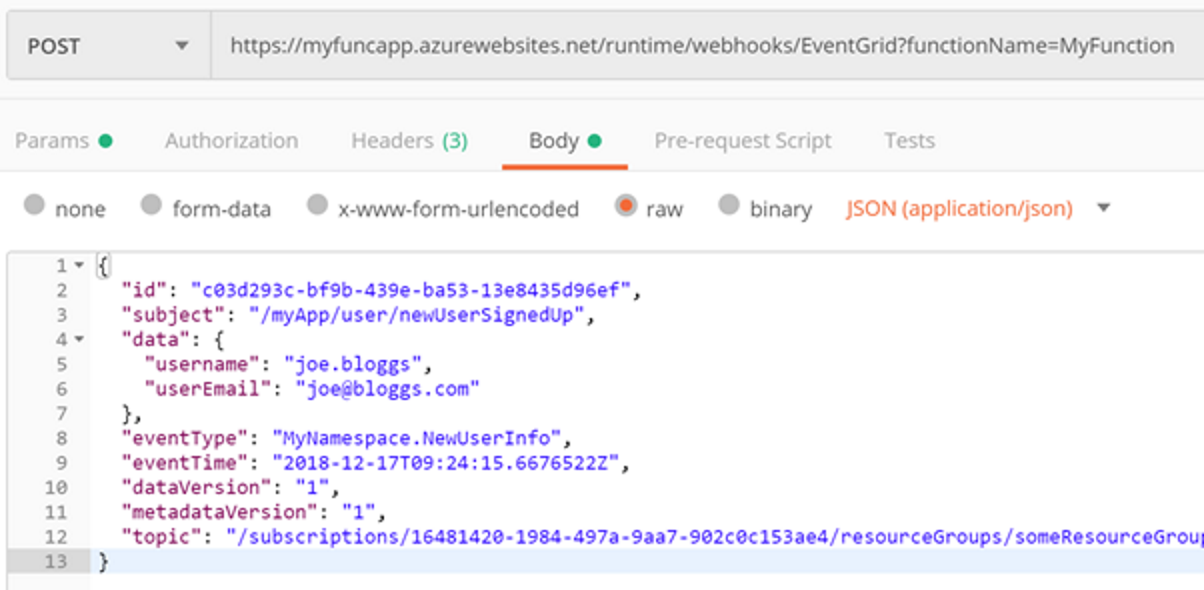
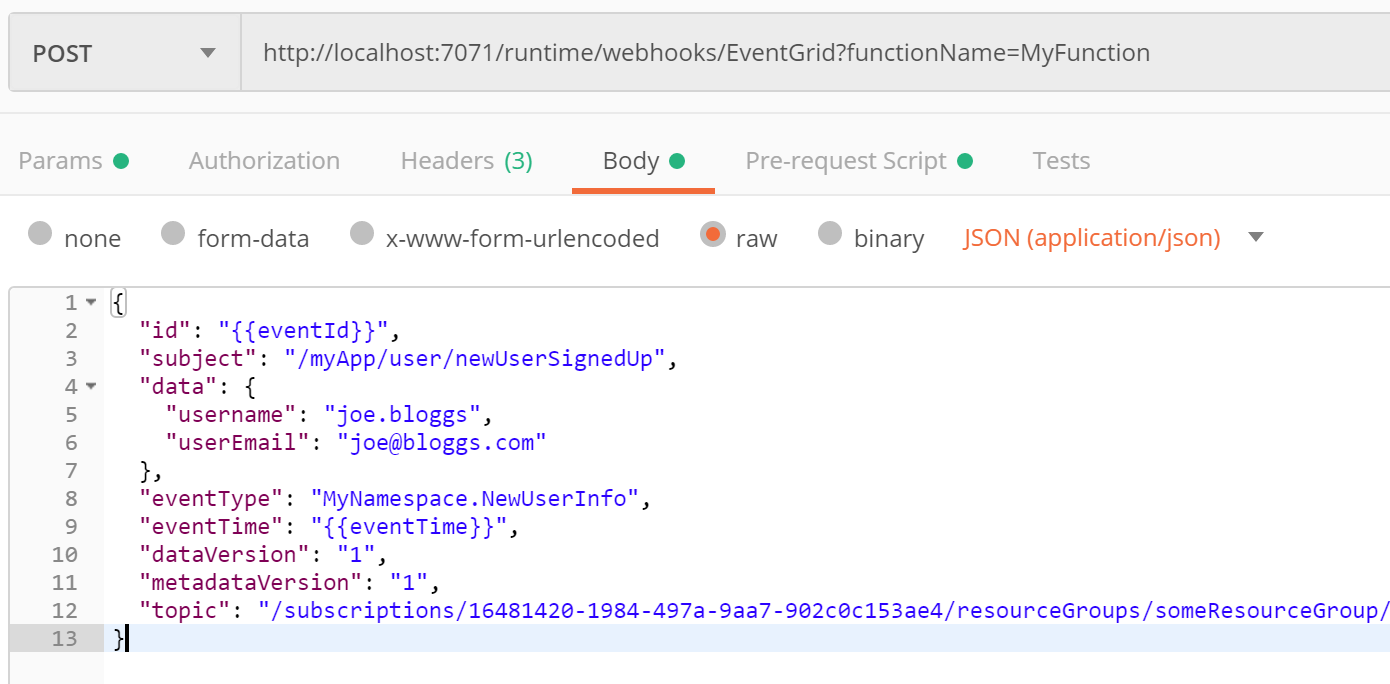
Fix up url derp.

diff --git a/_posts/2018-12-18-debug-eventgrid-triggered-azure-function.md b/_posts/2018-12-18-debug-eventgrid-triggered-azure-function.md
@@ -1,7 +1,7 @@
 ---
 layout: post
-title: Debugging an Event Grid Triggered Azure Function with Postman
-excerpt: "How to use Postman to debug an Azure Function that has an Event Grid Trigger."
+title: Locally Debugging an Event Grid Triggered Azure Function with Postman
+excerpt: "How to use Postman to locally debug an Azure Function that has an Event Grid Trigger."
 date: 2018-12-18
 categories: [C#, azure event grid, azure function, serverless]
 comments: true
@@ -16,6 +16,8 @@ Azure Functions can be invoked in response to various different [trigger](https:
 [Azure Event Grid](https://azure.microsoft.com/en-au/services/event-grid/) is analogous to SNS (Simple Notification Service) in AWS. It offers a simple event system which operates on a push-push model (rather than push-pull). Event Grid uses [topics](https://docs.microsoft.com/en-us/azure/event-grid/concepts). Events are published to a topic and subscribers receive the events from the topic. This model facilitates reactive programming and works great with Azure Logic apps and Azure Functions.
 
 Event Grid is deeply integrated into Azure. Many of Azure's services can publish events to an Event Grid topic. For example, a blob storage container can publish an event whenever an image is uploaded. An Azure Function could then subscribe to this event and be used to resize and compress the image.
+
+Anyway, since an Event Grid topic is not something that can be run locally, it can make debugging the Azure Function that subscribes to a topic a bit challenging at times. First let's quickly look at the structure of an event.
 
 ## Structure of an Event Grid Event
 
@@ -60,9 +62,9 @@ We can imagine that if we have a web app we might want to publish an event when 
 
 [Postman](https://www.getpostman.com/) is a well-known application that can be used for testing api endpoints and is great for constructing json and POSTing it to an endpoint. We can use postman to test an Event Grid triggered Azure Function as follows: -
 
-Firstly, grab the url of the function you are trying to test. You'll find this in the Azure portal. It usually takes the following form:
+Firstly, grab the url of the function you are trying to test. It usually takes the following form:
 
-`https://functionAppName.azurewebsites.net/runtime/webhooks/EventGrid?functionName=nameOfYourFunction`
+`https://localhost:7071/runtime/webhooks/EventGrid?functionName=nameOfYourFunction`
 
 We can plug this in to a new postman message, as shown in the screen-shot below. Be sure and specify POST as the verb. Also, paste in the event you wish to send in the body tab (under raw).
 
@@ -72,11 +74,10 @@ Then we need to switch to the Headers tab and add 3 headers:
 
 - `Content-Type` = `application/json`
 - `aeg-event-type` = `Notification`
-- `x-functions-key` = `<You can get this code from the Azure portal under the Manage section of your function>`
 
 <img src="https://blog.mcilreavy.com/img/eventgridazurefunction/postman_screenshot_2.png" title="Message headers"/>
 
-That is it! You should now be able to send the message to the Azure function and receive a 202 (Accepted) successful response.
+That is it! Now set a breakpoint on your Azure Function solution and hit F5. Then send the Postman message and your breakpoint should be hit. When the Azure function completes it should return a 202 (Accepted) response back to Postman.
 
 Depending on what you're testing, it's likely that you'll want to supply a new value for `id` and `eventTime` each time you send the message. It gets a bit tedious doing this by hand each time so you can utilise postman's _pre-request script_ feature to set a couple of variables that we can substitute in the body of the message.
 
